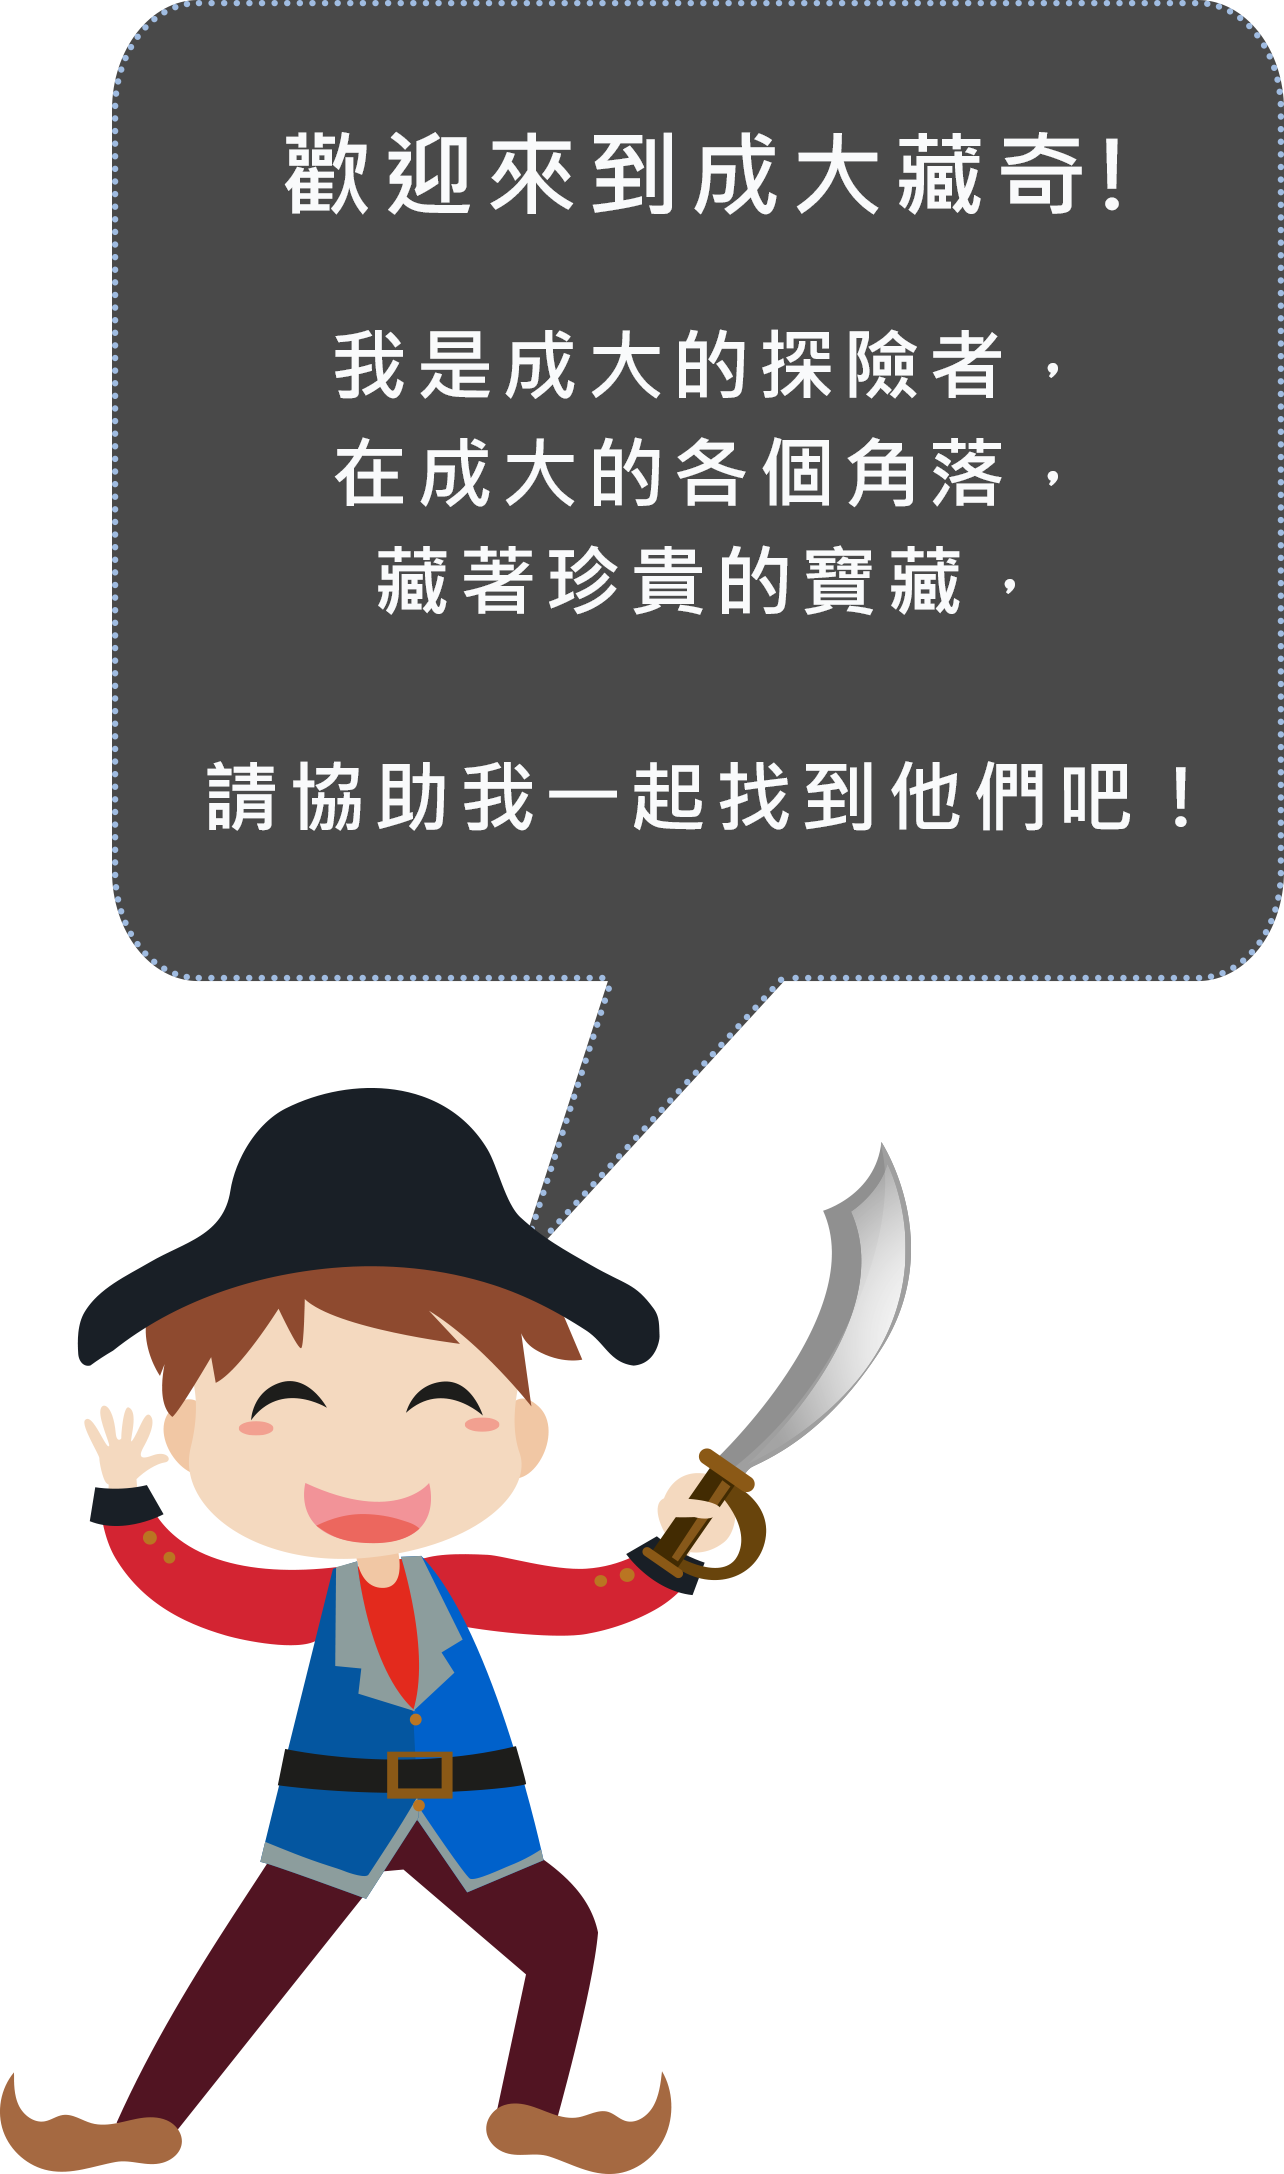
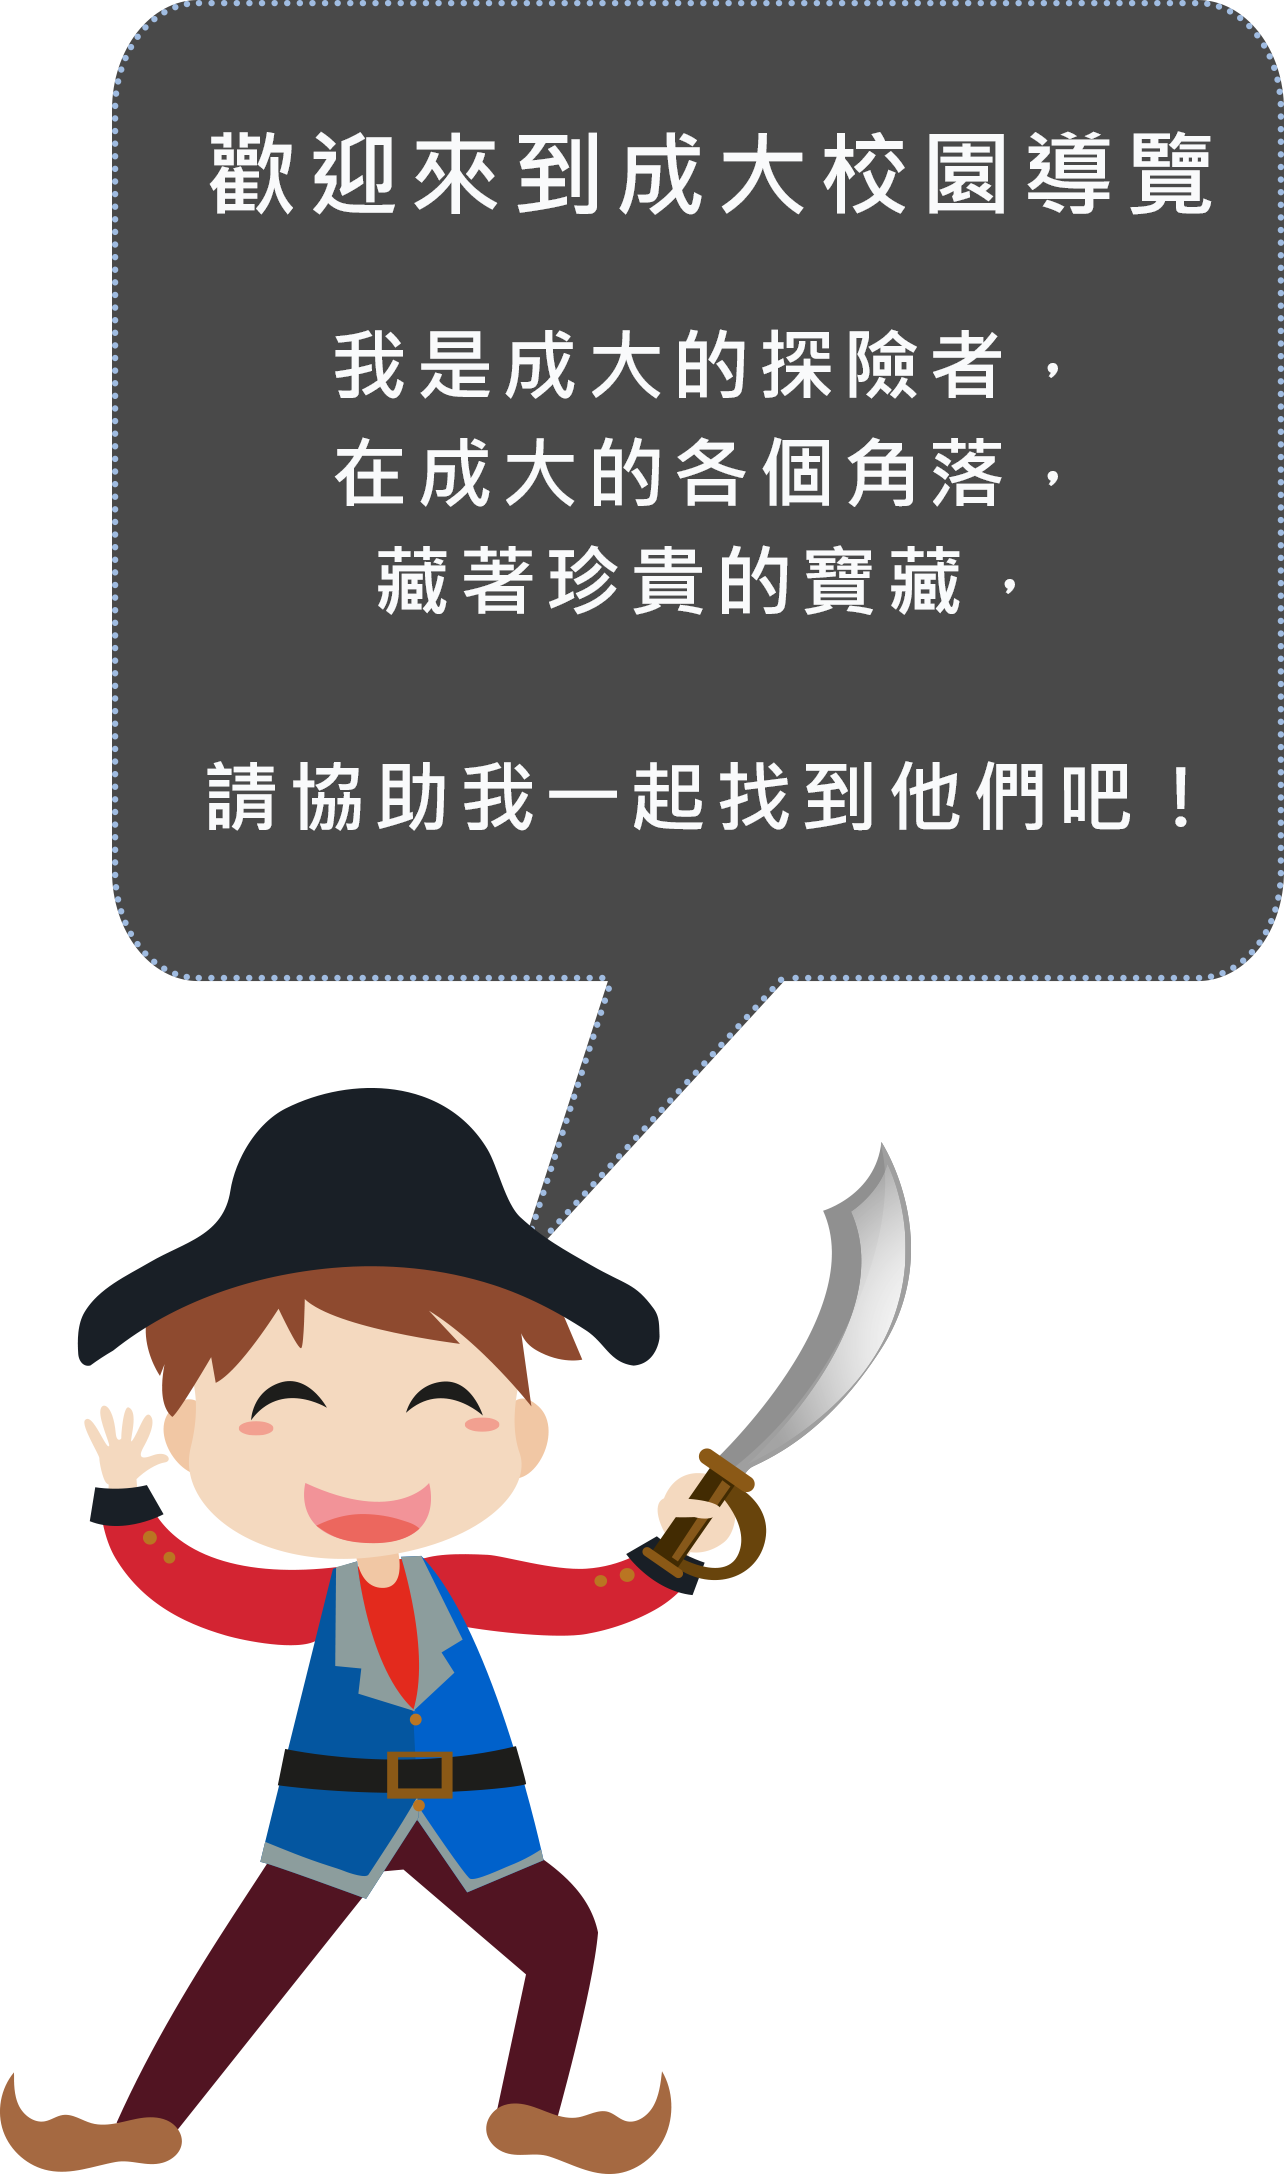
Change app name

Changed region(s): [[0.1558, 0.0616, 0.9346, 0.1233]]

diff --git a/www/js/my-app.js b/www/js/my-app.js
@@ -13,7 +13,7 @@ $$(document).on('backbutton', function() {
   var page = view.activePage;
 
   if (page.name == "index") {
-    var result = myApp.confirm("確定要離開嗎？", "成大藏奇圖", function() {
+    var result = myApp.confirm("確定要離開嗎？", "成大校園導覽", function() {
       navigator.app.clearHistory();
       navigator.app.exitApp();
     });
@@ -1704,7 +1704,7 @@ function answerQuestion(question, options, answer, question_id, gain, rewardID) 
           var rewardInfo = findStation(rewardsInfo, rewardID[0]);
 
           myApp.addNotification({
-            title: '成大藏奇圖',
+            title: '成大校園導覽',
             message: '您已獲得收藏品:  「' + rewardInfo.name + '」',
             media: '<img width="44" height="44" style="border-radius:100%" src="' + rewardInfo.image_url + '">',
             hold: 8000,

diff --git a/www/index.html b/www/index.html
@@ -8,7 +8,7 @@
   <meta name="apple-mobile-web-app-status-bar-style" content="black">
   <meta name="format-detection" content="telephone=no">
   <meta name="msapplication-tap-highlight" content="no">
-  <title>成大藏奇圖</title>
+  <title>成大校園導覽</title>
   <link rel="stylesheet" href="lib/framework7/css/framework7.ios.min.css">
   <link rel="stylesheet" href="lib/framework7/css/framework7.ios.colors.min.css">
   <link rel="stylesheet" href="css/styles.css">
@@ -24,7 +24,7 @@
     <div class="view view-main navbar-through toolbar-through">
       <div class="navbar">
         <div class="navbar-inner">
-          <div class="center sliding">成大藏奇圖</div>
+          <div class="center sliding">成大校園導覽</div>
         </div>
       </div>
       <div class="pages">
